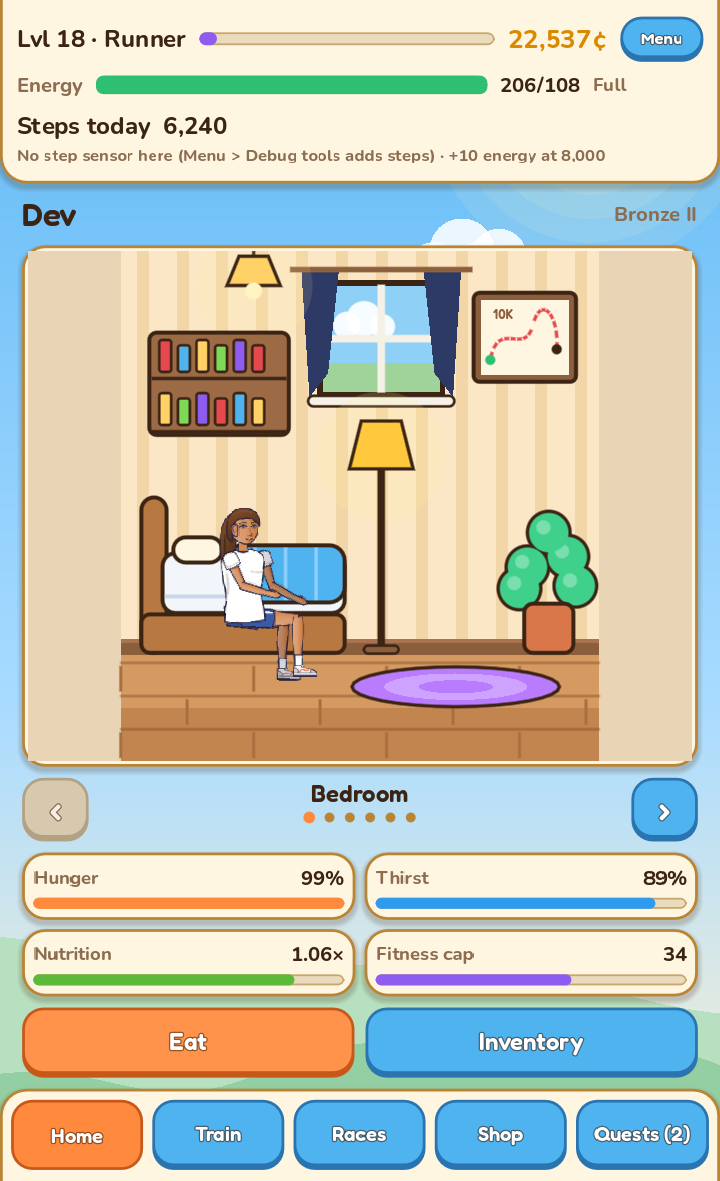
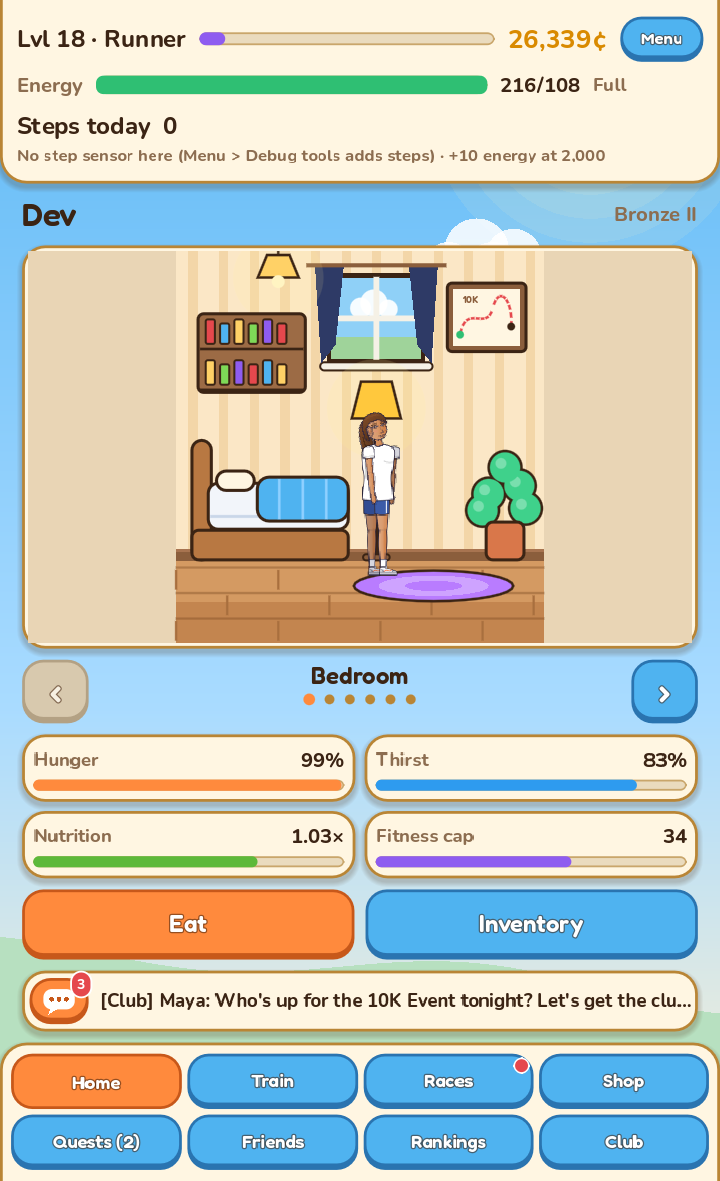
updated Runling to 0.17.0 LJT

diff --git a/runling/index.html b/runling/index.html
@@ -30,7 +30,7 @@
     <section class="hero">
       <div class="app-head">
         <img class="app-icon" src="../assets/apps/runling.svg" alt="" width="76" height="76">
-        <div><span class="badge">Open testing · v0.16.0</span></div>
+        <div><span class="badge">Open testing · v0.17.0</span></div>
       </div>
       <h1>Runling</h1>
       <p class="lead">Your real steps power your runner. Build a runner that looks like you, take care of them, train them and race them. Walk more in real life, and they get stronger.</p>
@@ -42,8 +42,8 @@
     </section>
 
     <div class="shots" aria-label="Screenshots">
-      <img src="screenshots/home.png" alt="Your runner in the bedroom, one of six rooms" loading="lazy">
-      <img src="screenshots/social.png" alt="The Social tab: friends, rankings, clubs and chat" loading="lazy">
+      <img src="screenshots/home.png" alt="Your runner in the bedroom, with the chat bar showing the newest message" loading="lazy">
+      <img src="screenshots/club.png" alt="The Club tab: start a running club or join one" loading="lazy">
       <img src="screenshots/garage.png" alt="The garage with an e-bike and training gear" loading="lazy">
       <img src="screenshots/bosses.png" alt="Boss challenges on the Races tab" loading="lazy">
       <img src="screenshots/quests.png" alt="Quests with Complete all bonuses and Perfect Month" loading="lazy">
@@ -63,9 +63,9 @@
         <div class="card"><h3>Races</h3><p>From the free Community Fun Run to the Marathon, at real-world paces: nobody beats a world record. The ground (track, road, trail, gravel, mud) changes daily, and every race rolls its own weather: rain favors Luck and Strength, heat favors Stamina.</p></div>
         <div class="card"><h3>Friends and rankings</h3><p>Add friends by their runner name, see their runners, levels and personal bests, and compare league ratings, Event medals and best times with everyone. Weekly steps are compared among friends and club members only, and you choose whether to show yours.</p></div>
         <div class="card"><h3>Running clubs</h3><p>Start or join a club of up to 30 runners. Every member's steps, races and medals earn Club Points, and each week clubs climb from Bronze to Diamond, with trophies for group winners.</p></div>
-        <div class="card"><h3>Chat</h3><p>Chat with your friends, your club and the whole world. Rude words are starred out, links and phone numbers are blocked, only friends can message you privately, and any message can be reported.</p></div>
+        <div class="card"><h3>Chat</h3><p>Chat with your friends, your club and the whole world from level 5, straight from your home screen. Rude words are starred out, links and phone numbers are blocked, only friends can message you privately, and any message can be reported.</p></div>
         <div class="card"><h3>Gear</h3><p>Over 90 pieces of gear in eight slots, from caps, beanies and bandanas to long tights, skorts, knee socks and five legendaries. Every slot has a cheap item for each stat, so you can dress your runner your way at any budget, then dye it any color.</p></div>
-        <div class="card"><h3>Daily Event</h3><p>Once a day, race everyone who registers. Each day has its own name, like Harbor Lights 10K, that doesn't repeat for 100 days. Bigger prizes, gear for the podium, and medals with the Event's name and date.</p></div>
+        <div class="card"><h3>Daily Event</h3><p>Once a day, race everyone who registers. Each day has its own name, like Harbor Lights 10K, that doesn't repeat for 100 days. Bigger prizes, gear for the podium, medals with the Event's name and date, and your place among every runner at your distance.</p></div>
         <div class="card"><h3>Boss challenges</h3><p>Race one on one against five boss runners, one for each distance. Beat a boss once for a big reward and a Challenge medal. Bosses never get stronger: you do, by walking and training.</p></div>
         <div class="card"><h3>Home</h3><p>Swipe through a six-room house: bedroom, kitchen, medal hall, and later a garage, living room and home gym. 24 pieces of furniture each give a small perk, a vehicle in the garage adds Charisma, and your runner potters about wherever you look.</p></div>
         <div class="card"><h3>Quests and medals</h3><p>Daily and weekly quests with a bonus for finishing them all, Perfect Month, a monthly walking milestone, a login calendar that never resets, and race bibs with your personal bests. A short guide shows you everything each new level unlocks.</p></div>

diff --git a/runling/changelog.html b/runling/changelog.html
@@ -29,6 +29,25 @@
   (<code>runling_&lt;version&gt;.apk</code>). Each version lists its SHA-256 checksum, so you can check
   that your download is the real file.</p>
 
+  <h2 id="v0-17-0">0.17.0 (October 12, 2026)</h2>
+  <p>Download: <code>runling_0.17.0.apk</code> from the <a href="https://drive.google.com/drive/folders/1OKRJil2Vq85TlMJgisvNVxiQkPWyds1h?usp=sharing">Google Drive folder</a> · SHA-256 <code>8b1fd070531cd6191caaf385c451132263c8cd5dfb3d09a3844a2466a5b3cca7</code></p>
+  <p>Installs over 0.16.0; your runner, progress, friends, club and house stay.</p>
+  <p><strong>Chat and friends, closer to hand</strong></p>
+  <ul>
+  <li>Chat now opens at <strong>level 5</strong>, and you can talk in world chat straight away: no more waiting until level 10 and a week-old account.
+  </li>
+  <li><strong>Chat</strong> is now a chat bar on the home screen, under Eat and Inventory: it shows the newest message from world, club or friend chat and how many new messages you have. Tap it to open Chat.
+  </li>
+  <li>The Social tab is gone: <strong>Friends</strong>, <strong>Rankings</strong> and <strong>Club</strong> now have their own buttons at the bottom of the screen. Club opens at level 5; until then its button shows the level.
+  </li></ul>
+  <p><strong>Daily Event</strong></p>
+  <ul>
+  <li>Your Event result now also shows where you finished among <strong>every runner at your distance</strong>, across all heats: for example "Heat 12 of 35 · 37th of 420 players overall". Prizes still go by your heat.
+  </li></ul>
+  <p><strong>Fixes</strong></p>
+  <ul>
+  <li>Club Points could sometimes stop updating on the club page until you earned more points. They now catch up on their own.
+  </li></ul>
   <h2 id="v0-16-0">0.16.0 (October 10, 2026)</h2>
   <p>Download: <code>runling_0.16.0.apk</code> from the <a href="https://drive.google.com/drive/folders/1OKRJil2Vq85TlMJgisvNVxiQkPWyds1h?usp=sharing">Google Drive folder</a> · SHA-256 <code>cc853448a61fe35f419fde36425cebb4003a71ad0fd0a79a014cbcec8b11531e</code></p>
   <p>Installs over 0.15.1; your runner, progress, friends, club and house stay.</p>

diff --git a/index.html b/index.html
@@ -53,7 +53,7 @@
             <a class="btn primary" href="https://drive.google.com/drive/folders/1OKRJil2Vq85TlMJgisvNVxiQkPWyds1h?usp=sharing">Download</a>
             <a class="btn" href="runling/">Learn more</a>
           </div>
-          <p class="meta">Version 0.16.0 · Android 8.0 or newer (64-bit) · Free, no ads · Needs an account</p>
+          <p class="meta">Version 0.17.0 · Android 8.0 or newer (64-bit) · Free, no ads · Needs an account</p>
         </article>
 
         <article class="card app-card">
